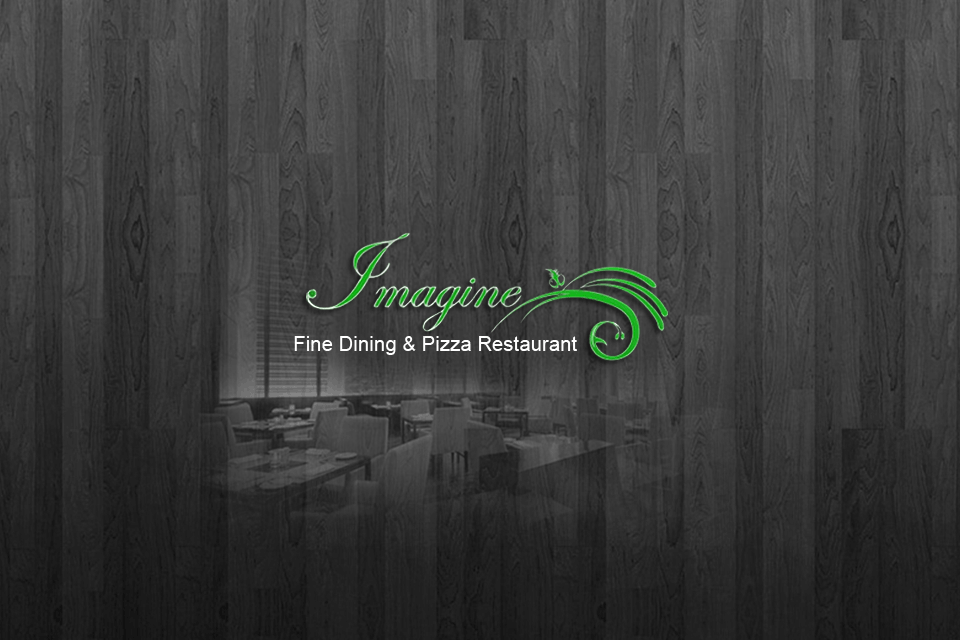
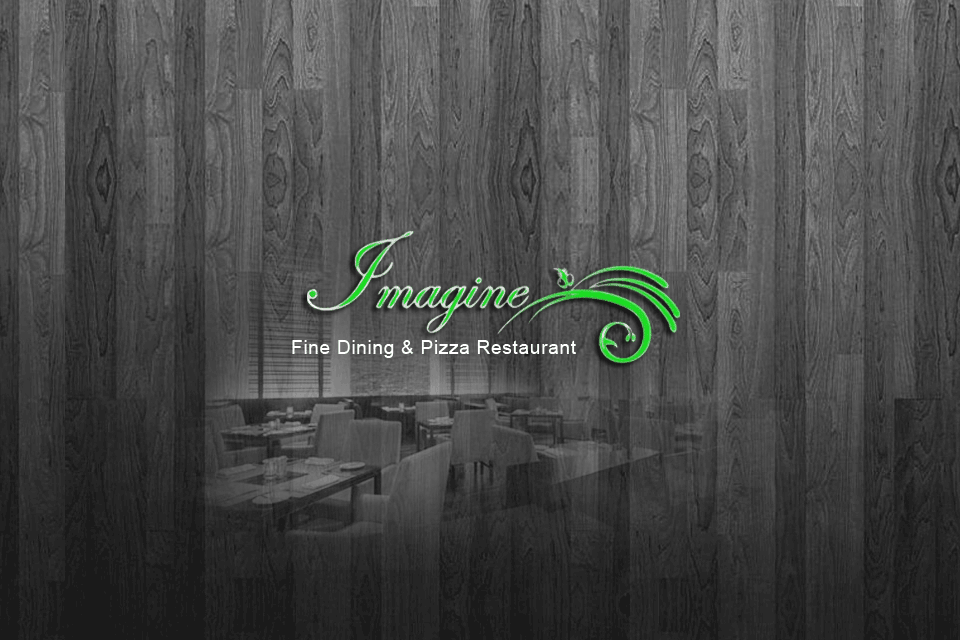
issue updates 04 apr 2014
issue updates 04 apr 2014

Changed region(s): [[0.0, 0.0, 1.0, 0.8438], [0.0312, 0.5938, 0.0625, 0.625], [0.0312, 0.5312, 0.0625, 0.5625]]

diff --git a/css/themes/default/jquery.mobile-1.4.0.css b/css/themes/default/jquery.mobile-1.4.0.css
@@ -4596,11 +4596,11 @@ text-transform:none; }
 
 
 .confirmation label{ display: block; width:15em; float:left; color:#000; font-size:14px; font-weight:bold;}
-p.info_right{  /*display: block; margin:0; padding:0; float:left; text-align:left*/float: right;font-size: 0.9em;margin: 0; padding: 0; text-align:right; }
+p.info_right{  /*display: block; margin:0; padding:0; float:left; text-align:left*/float: left;font-size: 0.9em;margin: 0; padding: 0; text-align:left; width:9em; }
 .ingre_label{  display: block; width:80%; float:left; color:#000; font-size:14px; font-weight:bold;}
 
 .confirmation strong{color:#ed9238; font-weight:normal;}
-.confirmation span{color:#e04c4c;}
+.confirmation span{/*color:#e04c4c;*/color:#333333;}
 
 .infowarps { border-bottom:1px solid #358c47; width:100%;}
 
@@ -4805,7 +4805,7 @@ a.arrival-time span, a.guset-no span{ font-size:18px; color:#278a32;}
 .res_location{ width:100%;} 
 
 .res_location img {margin:0; padding:0; width:100%;}
-#addressDiv .ui-btn { padding:0.3em 2em 0.3em 2em !important; margin-top:0 !important; background-color:#00ab21;font-family: 'gothic',Arial, Helvetica, sans-serif /*{global-font-family}*/; font-size:0.8em; text-transform:uppercase; color:#fff;}
+#addressDiv .ui-btn { padding:0.3em 2em 0.3em 2em !important; margin-top:0; background-color:#00ab21;font-family: 'gothic',Arial, Helvetica, sans-serif /*{global-font-family}*/; font-size:0.8em; clear: right; text-transform:uppercase; color:#fff;}
 
 .imagineLogo img{width:35%;padding:0;margin:0px 0 0 0 !important}
 .imagineLogo  h1{padding:0;margin:0 0 0 0 !important}
@@ -4838,6 +4838,7 @@ a.arrival-time span, a.guset-no span{ font-size:18px; color:#278a32;}
 .calen_tab{width:92.6%; height:74px; background:#fff;margin-left:45px}
 .drop_date{width:92%!important;font-size: 18px; font-family: 'gothic'; margin-left:3.5%!important;height:64px;border:none!important;box-shadow:none!important; line-height:64px; font-weight:bold!important;}
 .hour_sche{height:30px;display:block;line-height:30px;}
+.price_shw{text-align:right;  margin: 0 0 0.3em !important;}
 @media screen and (orientation: portrait) {
 	.ui-mobile .ui-page {
 		min-height: 420px;
@@ -4888,7 +4889,7 @@ a.arrival-time span, a.guset-no span{ font-size:18px; color:#278a32;}
 }
     .header_titletext{line-height:2em !important; padding: 0.7em 0 !important;}
 	.menu-choose-wp { width:47%; height:108px;float:left; margin-right:30px; margin-bottom:24px; }
-	.menu-img { height: 70px;/*height: 66px;*/}
+	.menu-img { height: 74px;/*height: 66px;*/}
 	
 	.drop_res{width:41%!important;}
 	a.arrival-time span, a.guset-no span {color: #278A32;font-size: 15px;}
@@ -4918,9 +4919,31 @@ a.arrival-time span, a.guset-no span{ font-size:18px; color:#278a32;}
 	/*gokul*/ float:left !important;
 	white-space:normal; width:13em;
 }
+.confirmation label{ display: block; width:7em; float:left; color:#000; font-size:14px; font-weight:bold;}
+#addressDiv .ui-btn { padding:0.3em .2em 0.3em 0.2em !important; margin-right:0; margin-top:-20px; background-color:#00ab21;font-family: 'gothic',Arial, Helvetica, sans-serif /*{global-font-family}*/; font-size:0.6em; text-transform:uppercase; float:right; color:#fff;}
+.menu_wrap{ background:none; margin-top:0px!important;}
+.menu-choose-wp {float: left;height: 89px; margin-bottom:28px!important; margin-right: 15px;width: 47%;}
+.imagineLogo img {margin: 0 !important;padding: 0;width: 70%!important;}
 }
 @media (min-width: 24em) {
-	.calen_tab {background: none repeat scroll 0 0 #FFFFFF;height: 74px; margin-left: 36px;width: 77.7%;}
+	.calen_tab {background: none repeat scroll 0 0 #FFFFFF;height: 74px; margin-left: 36px;width: 77.8%!important;}
+	#addressDiv .ui-btn { padding:0.8em 2.2em 0.8em 2.2em !important; margin-right:0; margin-top:-24px; background-color:#00ab21;font-family: 'gothic',Arial, Helvetica, sans-serif /*{global-font-family}*/; font-size:0.6em; text-transform:uppercase; float:right; color:#fff;}
+	
+.confirmation label {
+    color: #000000;
+    display: block;
+    float: left;
+    font-size: 14px;
+    font-weight: bold;
+    width: 7em;
+}p.info_right {
+    float: left;
+    font-size: 0.9em;
+    margin: 0;
+    padding: 0;
+    text-align: left;
+    width: 12em;
+}
 	
 }
 @media (min-width: 28em) {
@@ -4997,7 +5020,7 @@ a.arrival-time span, a.guset-no span{ font-size:18px; color:#278a32;}
 #pizzalist h2{ margin:0.0em 0 0.3em;}
 #pizzalist h3{ margin:0 0 0.3em!important;}
 #pizzalist{  margin-top: 0 !important; clear:both; }
-.calen_tab {background: none repeat scroll 0 0 #FFFFFF;height: 74px; margin-left: 36px; width: 84.8%;}
+.calen_tab {background: none repeat scroll 0 0 #FFFFFF;height: 74px; margin-left: 36px; width: 84.8%!important;}
 	.ui-listview > li p {
 	/*font-size: .70em;*/font-size: .718em;
 	font-weight: normal;
@@ -5008,6 +5031,10 @@ a.arrival-time span, a.guset-no span{ font-size:18px; color:#278a32;}
 	/*gokul*/ float:left !important;
 	white-space:normal; width:27em;
 }
+#addressDiv .ui-btn { padding:0.3em 1em 0.3em 1em !important; margin-right:0; margin-top:-22px; background-color:#00ab21;font-family: 'gothic',Arial, Helvetica, sans-serif /*{global-font-family}*/; font-size:0.8em; text-transform:uppercase; float:right; color:#fff;}
+.confirmation label{ display: block; width:15em; float:left; color:#000; font-size:14px; font-weight:bold;}
+p.info_right{  /*display: block; margin:0; padding:0; float:left; text-align:left*/float: left;font-size: 0.9em;margin: 0; padding: 0; text-align:left; width:13em; }
+.imagineLogo img {margin: 0 !important;padding: 0;width: 50%!important;}
 
 	}
 
@@ -5027,13 +5054,25 @@ a.arrival-time span, a.guset-no span{ font-size:18px; color:#278a32;}
  .left_nav img, .right_nav img{ width:80%;  margin-top:16px;}
 	/*.menu-choose-wp { width:47%; height:156px; background: #03F; color: #930; float:left; margin-right:30px; margin-bottom:24px; }*/
 	.header_titletext{line-height:2em !important; padding: 0.7em 0 !important;}
+
 	.menu-choose-wp { width:47%; height:89px; float:left; margin-right:15px; margin-bottom:20px; }
+	.calen_tab { background: none repeat scroll 0 0 #FFFFFF;height: 74px;margin-left: 36px;width: 84.8%;}
+	
 }
 @media (min-width: 35.5em) {
 	.menu-img {height: 84px;/*height: 80px;*/}
-	.menu-choose-wp { width:47%; height:135px !important; float:left; margin-right:15px; margin-bottom:0px; }
-	
+	.menu-choose-wp { width:47%; height:106px!important; float:left; margin-right:15px; margin-bottom:0px; }
+	.confirmation label{ display: block; width:16em; float:left; color:#000; font-size:14px; font-weight:bold;}
+p.info_right{  /*display: block; margin:0; padding:0; float:left; text-align:left*/float: left;font-size: 0.9em;margin: 0; padding: 0; text-align:left; width:18em; }
+.menu_wrap{ background:none; margin-top:20px!important;}
+
+
 	}
+	
+	@media (min-width: 37.5em) {
+		.calen_tab {background: none repeat scroll 0 0 #FFFFFF;height: 74px; margin-left: 36px;width: 85.8%!important;}
+		
+		}
 @media (min-width: 38em) {
 	.ui-responsive > .ui-block-a,
 	.ui-responsive > .ui-block-b,
@@ -5145,7 +5184,12 @@ a.arrival-time span, a.guset-no span{ font-size:18px; color:#278a32;}
 	filter: Alpha(Opacity=75);
 	opacity: .75;
 }
-
+.calen_tab {
+    background: none repeat scroll 0 0 #FFFFFF;
+    height: 74px;
+    margin-left: 36px;
+    width: 72.8%;
+}
 }
 @media screen and (max-width: 30em) {
 	.imagineLogo img {
@@ -5153,6 +5197,7 @@ a.arrival-time span, a.guset-no span{ font-size:18px; color:#278a32;}
     padding: 0;
     width: 50%;
 }
+
 }
 /* Show priority 2 at 480px (30em x 16px) */
 @media screen and (min-width: 30em) {
@@ -5161,6 +5206,12 @@ a.arrival-time span, a.guset-no span{ font-size:18px; color:#278a32;}
 		display: table-cell;
 	}
 .drop_res{width:41%!important;}
+.calen_tab {
+    background: none repeat scroll 0 0 #FFFFFF;
+    height: 74px;
+    margin-left: 36px;
+    width: 83.8%;
+}
 }
 /* Show priority 3 at 640px (40em x 16px) */
 @media screen and (min-width: 40em) {
@@ -5187,6 +5238,14 @@ a.arrival-time span, a.guset-no span{ font-size:18px; color:#278a32;}
 	/*gokul*/ float:left !important;
 	white-space:normal; width:51em;
 }
+#addressDiv .ui-btn { padding:0.3em 1em 0.3em 1em !important; margin-right:0; margin-top:-29px; background-color:#00ab21;font-family: 'gothic',Arial, Helvetica, sans-serif /*{global-font-family}*/; font-size:0.8em; text-transform:uppercase; float:right; color:#fff;}
+.confirmation label{ display: block; width:26em; float:left; color:#000; font-size:14px; font-weight:bold;}
+p.info_right{  /*display: block; margin:0; padding:0; float:left; text-align:left*/float: left;font-size: 0.9em;margin: 0; padding: 0; text-align:left; width:22em; }
+.menu_wrap {
+    background: none repeat scroll 0 0 rgba(0, 0, 0, 0);
+    margin-top:24px!important;
+}
+.imagineLogo img {margin: 0 !important;padding: 0;width: 40%!important;}
 	}
 
 	
@@ -5242,6 +5301,26 @@ a.arrival-time span, a.guset-no span{ font-size:18px; color:#278a32;}
 	/*gokul*/ float:left !important;
 	white-space:normal; width:73em;
 }
+#addressDiv .ui-btn { padding:0.3em 1em 0.3em 1em !important; margin-right:0; margin-top:-29px; background-color:#00ab21;font-family: 'gothic',Arial, Helvetica, sans-serif /*{global-font-family}*/; font-size:0.8em; text-transform:uppercase; float:right; color:#fff;}
+.confirmation label{ display: block; width:32em; float:left; color:#000; font-size:14px; font-weight:bold;}
+p.info_right{  /*display: block; margin:0; padding:0; float:left; text-align:left*/float: left;font-size: 0.9em;margin: 0; padding: 0; text-align:left; width:33em; }
+	}
+	/*gokul*/@media (min-width: 64em) {
+	
+	.calen_tab {background: none repeat scroll 0 0 #FFFFFF;height: 74px; margin-left: 36px; width: 93.8%!important;}
+					.ui-listview > li p {
+	/*font-size: .70em;*/font-size: .718em;
+	font-weight: normal;
+	display: block;
+	/*margin: .6em 0;*/margin:0;
+	text-overflow: ellipsis;
+	/*overflow: hidden;*/
+	/*gokul*/ float:left !important;
+	white-space:normal; width:73em;
+}
+#addressDiv .ui-btn { padding:0.3em 1em 0.3em 1em !important; margin-right:0; margin-top:-29px; background-color:#00ab21;font-family: 'gothic',Arial, Helvetica, sans-serif /*{global-font-family}*/; font-size:0.8em; text-transform:uppercase; float:right; color:#fff;}
+.confirmation label{ display: block; width:32em; float:left; color:#000; font-size:14px; font-weight:bold;}
+p.info_right{  /*display: block; margin:0; padding:0; float:left; text-align:left*/float: left;font-size: 0.9em;margin: 0; padding: 0; text-align:left; width:33em; }
 	}
 /* Show priority 6 at 1,120px (70em x 16px) */
 @media screen and (min-width: 70em) {

diff --git a/js/dinein.js b/js/dinein.js
@@ -64,7 +64,7 @@ jQuery(document).ready(function () {
 function getNumGuest() {
 	resDataMinGuest=resData.min_gust_per_online_bk;
 	resDataMaxGuest=resData.max_gust_per_online_bk;
-	numGuestHtml='<option value="0">Select Guest</option>';
+	numGuestHtml='<option value="0">Select</option>';
 	for(i=resDataMinGuest;i<=resDataMaxGuest;i++){	
 		
 		numGuestHtml+='<option value='+i+'>'+i+'</option>';
@@ -116,8 +116,8 @@ function getSittingName() {
 		if(onCh=='drop') {
 			$('#time_validate').val('');
 			
-			$('#timediv').html('<option value="0">Select Arrival Time</option>');
-			$("#timediv-button span").html('Select Arrival Time');
+			$('#timediv').html('<option value="0">Select</option>');
+			$("#timediv-button span").html('Select');
 		}
 		
 		numGuestSel=$( "#num_guest_online option:selected" ).val();//alert(numGuestSel);
@@ -149,7 +149,7 @@ function getSittingName() {
 					if(bkfstStr.close_rest!==1) {
 						
 						if(bkfstStrCnt > 0) {
-							timHtml+='<option value="0">Select Arrival Time</option>';
+							timHtml+='<option value="0">Select</option>';
 							i=0;
 							$.each(bkfstStr, function(index, bkfst) {
 								//alert(index+":"+bkfst);	
@@ -186,7 +186,7 @@ function getSittingName() {
 								}								
 							}						
 						} else {							
-							if(seating=='bkfst') { set=0;} else if(seating=='lunch') {set=1;} else if(seating=='dinner') {set=2;}else {set='Select Arrival Time';}
+							if(seating=='bkfst') { set=0;} else if(seating=='lunch') {set=1;} else if(seating=='dinner') {set=2;}else {set='Select';}
 							if(sittingArr[set]==null) {
 								sitVal=set;
 							} else {
@@ -225,7 +225,7 @@ function getSittingName() {
 		} else {
 			$("#time_validate").val('');
 			$("#timediv").val(0);
-			$("#timediv-button span").html('Select Arrival Time');
+			$("#timediv-button span").html('Select');
 		}
 		
 	}
@@ -288,8 +288,8 @@ function dateChange(type) {
 	//alert(type);
 	$('#time_validate').val('');
 			
-	$('#timediv').html('<option value="0">Select Arrival Time</option>');
-	$("#timediv-button span").html('Select Arrival Time');
+	$('#timediv').html('<option value="0">Select</option>');
+	$("#timediv-button span").html('Select');
 	if(type!='') {
 		$('#seating').val('0');
 		$('#seating-button span').html('Select sitting');
@@ -333,6 +333,8 @@ function dateChange(type) {
 		
 		$('#dateDrop').val(dateGiven);
 		$('#dateDrop-button span').html(DateShow);
+		$("#dayP").html(sepDay[0]);
+		$("#dateP").html(sepDay[1]+" "+sepDay[2].slice(0,3)+" "+sepDay[3]);
 		//alert(sepDay[0]);
 	} else {
 		alert('Please select greater than or equal to current date');
@@ -390,11 +392,41 @@ function fn_DateCompare(DateA, DateB) {
   function setDateHidden(val){
 	$('#time_validate').val('');
 			
-	$('#timediv').html('<option value="0">Select Arrival Time</option>');
-	$("#timediv-button span").html('Select Arrival Time');
+	$('#timediv').html('<option value="0">Select</option>');
+	$("#timediv-button span").html('Select');
 	$('#seating').val('0');
 	$('#seating-button span').html('Select sitting');
 			
 	$('#booking_date').val(val);
+	$("#dropDateId").hide();
+	$("#dropHtmlDateId").show();
+	
+	var booking_date = $('#booking_date').val();
+	dArr=booking_date.split('-');
+	if(dArr[0]<2000) {
+		dateGiven=dArr[2]+'-'+(dArr[1]<10 ? '0'+dArr[1]: dArr[1])+'-'+(dArr[0]<10 ? '0'+dArr[0]: dArr[0]);
+		var nex = new Date(dateGiven); //alert(nex);
+		
+		var dmNex = nex.getMonth()+1;		
+		var dyNex = nex.getFullYear();
+		var daNex = nex.getDate();			
+			
+		dateGiven = dyNex+'-'+(dmNex<10 ? '0'+dmNex: dmNex)+'-'+(daNex<10 ? '0'+daNex: daNex);			
+		
+	}
+	var frmDat = getDateFormat(dateGiven);
+	var sepDay = frmDat.split(" ");
+	
+	$("#dayP").html(sepDay[0]);
+	$("#dateP").html(sepDay[1]+" "+sepDay[2].slice(0,3)+" "+sepDay[3]);
   }
-  
+  function showDateDrop(val) {
+	//alert(val);
+	if(val!="out") {
+		$("#dropDateId").show();
+		$("#dropHtmlDateId").hide();
+	} else {
+		$("#dropDateId").hide();
+		$("#dropHtmlDateId").show();
+	}
+  }

diff --git a/dinein.html b/dinein.html
@@ -58,7 +58,8 @@
 			$("#dateDrop-button").removeClass("ui-corner-all");
 			$("#dateDrop-button").addClass("drop_date");
 			$("#registerFrmId .ui-select").css({"margin-bottom":"0"});
-			$("#seating-button .ui-select").css({"margin-top":"0"});
+			$("#seating-button .ui-select").css({"margin-top":"0.5em"});
+			$("#dropDateId .ui-select").css({"margin-top":"0"});
 			$("#registerFrmId .ui-select #timediv-button").css({"border-width":"0"});
 			$("#registerFrmId .ui-select #num_guest_online-button").css({"border-width":"0"});
 			//$("#registerFrmId #seating-button span").css({"height":"30","display":"block","line-height":"30px"});
@@ -108,16 +109,21 @@
 				<div class="left_nav" onclick="dateChange('Prev')"><a href="#"><img src="images/left_nav.jpg" alt=""></a></div>
                 <div class="right_nav" onclick="dateChange('Next')"><a href="#"><img src="images/right_nav.jpg" alt=""></a></div>
                 
-                <div class="calen_tab">            
-				 <select id="dateDrop" name="dateDrop" onchange="setDateHidden(this.value)"></select></p>
-				                 
+                <div class="calen_tab"  id="dropDateId" style="display:none;">            
+				 <select id="dateDrop" name="dateDrop" onchange="setDateHidden(this.value)"></select>                 
 				</div>
-                <div class="clearfix"></div>				
                
+                
+				<div class="calen_tab" onmouseover="showDateDrop('in');"   id="dropHtmlDateId">            
+				  <p style="font-size:26px; color:#000; font-family: 'gothic'; margin:0 0 0 0!important; padding:10px 0 0 0!important; text-align:center;" id='dateP'></p>
+				  <p style="font-size:16px; color:#027e0c; text-transform:uppercase; font-family: 'gothic'; margin:5px 0 0 0!important; padding:0!important; text-align:center;" id='dayP'></p>                
+				</div>
+				<div class="clearfix"></div>				
+            
 			
 				<input type="hidden" id="booking_date" name="booking_date" class="one" required>
-				<div id="seatingDrop">
-				  <select id="seating" name="seating" data-shadow="false" onChange="loadtimediv('drop')">
+				<div id="seatingDrop" onmouseout="showDateDrop('out');">
+				  <select id="seating" name="seating" data-shadow="false" onChange="loadtimediv('drop')" >
 			      </select>
                  
 				</div>
@@ -127,7 +133,7 @@
                 
 				<select id="timediv" style="background-image:none;" name="timediv" data-shadow="false"  onChange="changecolor(this.value)">
 				  <option value="SA">
-                  Select Arrival Time
+                  Select
                   </option>
                 
 				  </select>

diff --git a/js/confirm_booking.js b/js/confirm_booking.js
@@ -51,7 +51,7 @@ function showOrderinfo() {
 				
 				htmlData+=' <div class="clearfix infowarps">';
 				
-				htmlData+=' <div class="row_div"><label>Confirmation Number </label>';
+				htmlData+=' <div class="row_div"><label>Confirm No </label>';
 				htmlData+='  <p class="info_right">'+item.booking_id+'</p></div>';
 				
 				htmlData+=' <div class="row_div"><label>Name </label>';
@@ -81,7 +81,7 @@ function showOrderinfo() {
 				htmlData+='<div class="row_div"><h2>Location</h2></div>';
 				htmlData+='<div class="row_div"><label>Address </label>';
 				htmlData+='<p class="info_right">';
-				htmlData+=resData.address_line1+',<br>  '+resData.address_line2+', <br> '+resData.suburb+',<br> '+resData.state+' <br> '+resData.postcode; 
+				htmlData+=resData.address_line1+'<br>  '+(resData.address_line2!="" ? resData.address_line2+'<br>' :"")+resData.suburb+'<br> '+resData.state+' <br> '+resData.postcode; 
 				htmlData+='</p></div>';
 				
 				htmlData+='<div class="row_div"><label>Phone </label>  ';           

diff --git a/js/restaurant_details.js b/js/restaurant_details.js
@@ -10,10 +10,10 @@ htmlData+='<div class="clearfix infowarps">';
 htmlData+='<div class="row_div"><h2>Location</h2></div>';
 htmlData+='<div class="row_div"><label>Address </label>';
 htmlData+='<p class="info_right">';
-htmlData+=resData.address_line1+', '+resData.address_line2+', <br> '+resData.suburb+',<br> '+resData.state+' <br> '+resData.postcode; 
+htmlData+=resData.address_line1+'<br> '+(resData.address_line2!="" ? resData.address_line2+'<br>' :"")+resData.suburb+'<br> '+resData.state+' <br> '+resData.postcode; 
 htmlData+='</p></div>';
 htmlData+='<div class="row_div"><label>Phone </label>  ';           
-           htmlData+='<p class="info_right"> '+resData.phone+'</p> <a href="map.html" rel="external" style="float:right;" class="ui-btn ui-btn-inline">View Map</a></div> ';
+           htmlData+='<p class="info_right"> '+resData.phone+'</p> <a href="map.html" rel="external"  class="ui-btn">View Map</a></div> ';
 htmlData+='</div>';
 $('#addressDiv').html(htmlData);
 	

diff --git a/js/showMenu.js b/js/showMenu.js
@@ -182,7 +182,7 @@ function getMenuItemList() {
 		if(itemDet.option=='N') {
 			
 			
-			htmlVal+='<p> <h3>Price  <span>$'+ itemDet.item_selling_price + '/-</span></h3>';
+			htmlVal+='<p> <h3 class="price_shw">Price  <span>$'+ itemDet.item_selling_price + '/-</span></h3>';
 				
 			
 			/* -- modi 4 /12----
